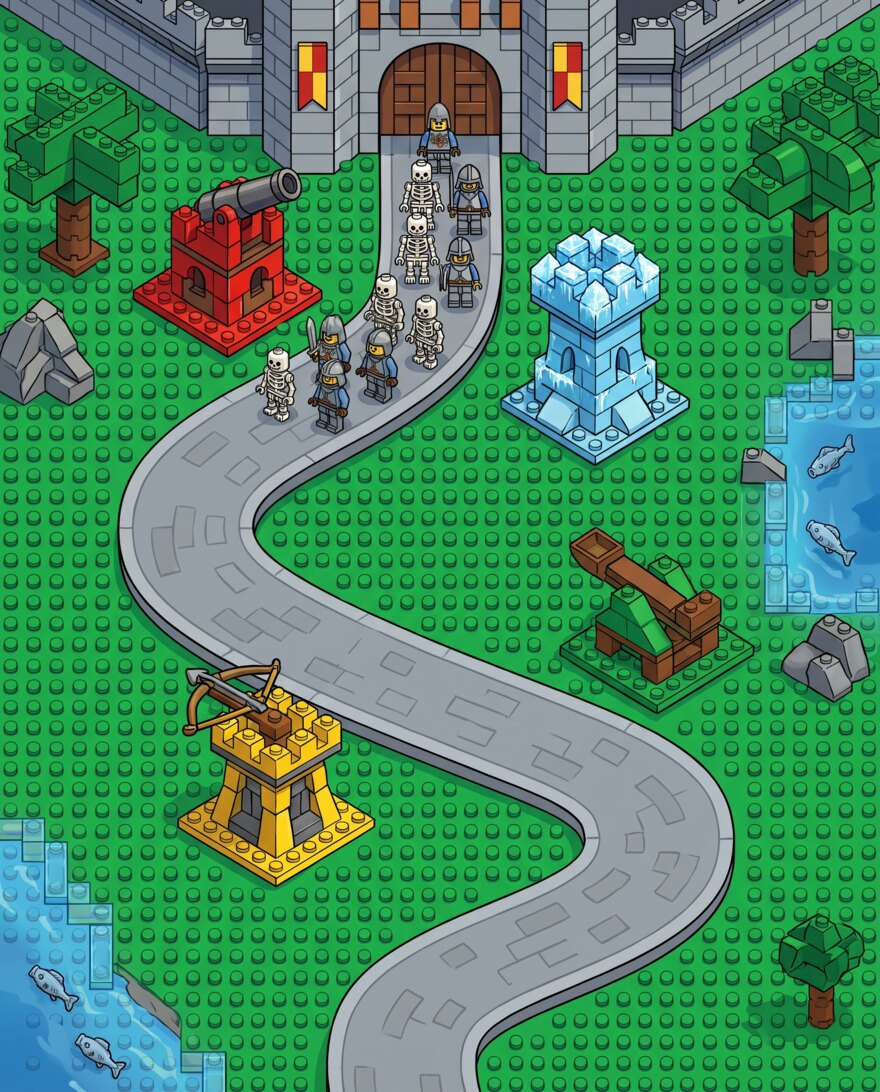
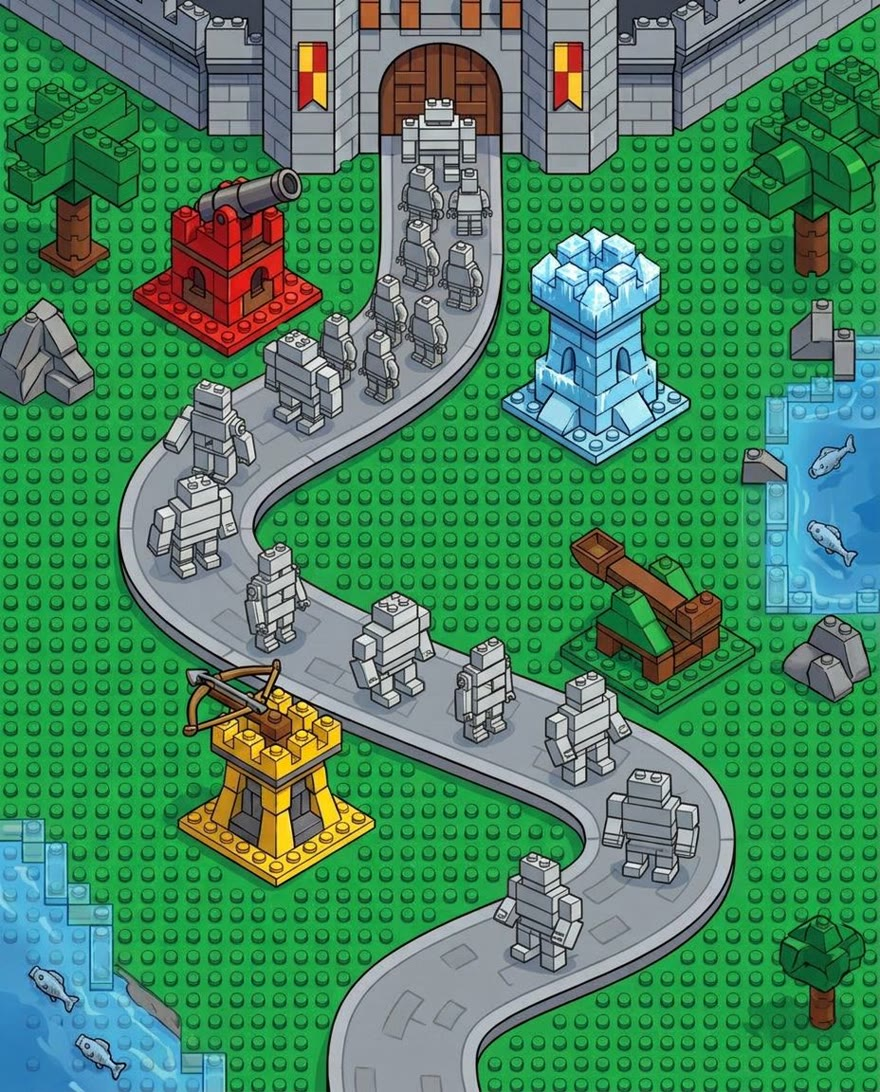
Proposal updates

diff --git a/PuppetSports_Revival/public/hockey.html b/PuppetSports_Revival/public/hockey.html
@@ -843,25 +843,25 @@
 
       <div class="sports-strip reveal d3">
         <div class="shot" data-label="Floorball">
-          <img src="assets/sport-floorball.gif" alt="Floorball built on the Puppet Sports core"
+          <img src="assets/sport-floorball.gif" alt="Floorball built on the Puppet Sports core" loading="lazy"
                onerror="this.onerror=null; this.src='assets/sport-floorball.svg';" />
         </div>
-        <div class="shot" data-label="Football">
-          <img src="assets/sport-football.gif" alt="Football built on the Puppet Sports core"
+        <div class="shot" data-label="American football">
+          <img src="assets/sport-football.gif" alt="American football built on the Puppet Sports core" loading="lazy"
                onerror="this.onerror=null; this.src='assets/sport-football.svg';" />
         </div>
-        <div class="shot" data-label="Quidditch">
-          <img src="assets/sport-quidditch.gif" alt="Quidditch built on the Puppet Sports core"
+        <div class="shot" data-label="Quadball">
+          <img src="assets/sport-quidditch.gif" alt="Quadball built on the Puppet Sports core" loading="lazy"
                onerror="this.onerror=null; this.src='assets/sport-quidditch.svg';" />
         </div>
         <div class="shot" data-label="Horse polo">
-          <img src="assets/sport-polo.gif" alt="Horse polo built on the Puppet Sports core"
+          <img src="assets/sport-polo.gif" alt="Horse polo built on the Puppet Sports core" loading="lazy"
                onerror="this.onerror=null; this.src='assets/sport-polo.svg';" />
         </div>
       </div>
       <p class="strip-cap reveal d3">
-        <strong>Floorball. Football. Quidditch. Horse polo.</strong> Four passes we have already made on this same
-        core. If it has two sides and something to score with, the answer is yes.
+        <strong>Floorball. American football. Quadball. Horse polo.</strong> Four passes we have already made on this
+        same core, captured live from the build. If it has two sides and something to score with, the answer is yes.
       </p>
 
       <div class="hero-actions reveal d3">

diff --git a/PuppetSports_Revival/public/index.html b/PuppetSports_Revival/public/index.html
@@ -899,25 +899,25 @@
 
       <div class="sports-strip reveal d3">
         <div class="shot" data-label="Floorball">
-          <img src="assets/sport-floorball.gif" alt="Floorball built on the Puppet Sports core"
+          <img src="assets/sport-floorball.gif" alt="Floorball built on the Puppet Sports core" loading="lazy"
                onerror="this.onerror=null; this.src='assets/sport-floorball.svg';" />
         </div>
-        <div class="shot" data-label="Football">
-          <img src="assets/sport-football.gif" alt="Football built on the Puppet Sports core"
+        <div class="shot" data-label="American football">
+          <img src="assets/sport-football.gif" alt="American football built on the Puppet Sports core" loading="lazy"
                onerror="this.onerror=null; this.src='assets/sport-football.svg';" />
         </div>
-        <div class="shot" data-label="Quidditch">
-          <img src="assets/sport-quidditch.gif" alt="Quidditch built on the Puppet Sports core"
+        <div class="shot" data-label="Quadball">
+          <img src="assets/sport-quidditch.gif" alt="Quadball built on the Puppet Sports core" loading="lazy"
                onerror="this.onerror=null; this.src='assets/sport-quidditch.svg';" />
         </div>
         <div class="shot" data-label="Horse polo">
-          <img src="assets/sport-polo.gif" alt="Horse polo built on the Puppet Sports core"
+          <img src="assets/sport-polo.gif" alt="Horse polo built on the Puppet Sports core" loading="lazy"
                onerror="this.onerror=null; this.src='assets/sport-polo.svg';" />
         </div>
       </div>
       <p class="strip-cap reveal d3">
-        <strong>Floorball. Football. Quidditch. Horse polo.</strong> Four passes we have already made on this same
-        core. If it has two sides and something to score with, the answer is yes.
+        <strong>Floorball. American football. Quadball. Horse polo.</strong> Four passes we have already made on this
+        same core, captured live from the build. If it has two sides and something to score with, the answer is yes.
       </p>
 
       <div class="hero-actions reveal d3">

diff --git a/PuppetSports_Revival/public/soccer.html b/PuppetSports_Revival/public/soccer.html
@@ -843,25 +843,25 @@
 
       <div class="sports-strip reveal d3">
         <div class="shot" data-label="Floorball">
-          <img src="assets/sport-floorball.gif" alt="Floorball built on the Puppet Sports core"
+          <img src="assets/sport-floorball.gif" alt="Floorball built on the Puppet Sports core" loading="lazy"
                onerror="this.onerror=null; this.src='assets/sport-floorball.svg';" />
         </div>
-        <div class="shot" data-label="Football">
-          <img src="assets/sport-football.gif" alt="Football built on the Puppet Sports core"
+        <div class="shot" data-label="American football">
+          <img src="assets/sport-football.gif" alt="American football built on the Puppet Sports core" loading="lazy"
                onerror="this.onerror=null; this.src='assets/sport-football.svg';" />
         </div>
-        <div class="shot" data-label="Quidditch">
-          <img src="assets/sport-quidditch.gif" alt="Quidditch built on the Puppet Sports core"
+        <div class="shot" data-label="Quadball">
+          <img src="assets/sport-quidditch.gif" alt="Quadball built on the Puppet Sports core" loading="lazy"
                onerror="this.onerror=null; this.src='assets/sport-quidditch.svg';" />
         </div>
         <div class="shot" data-label="Horse polo">
-          <img src="assets/sport-polo.gif" alt="Horse polo built on the Puppet Sports core"
+          <img src="assets/sport-polo.gif" alt="Horse polo built on the Puppet Sports core" loading="lazy"
                onerror="this.onerror=null; this.src='assets/sport-polo.svg';" />
         </div>
       </div>
       <p class="strip-cap reveal d3">
-        <strong>Floorball. Football. Quidditch. Horse polo.</strong> Four passes we have already made on this same
-        core. If it has two sides and something to score with, the answer is yes.
+        <strong>Floorball. American football. Quadball. Horse polo.</strong> Four passes we have already made on this
+        same core, captured live from the build. If it has two sides and something to score with, the answer is yes.
       </p>
 
       <div class="hero-actions reveal d3">

diff --git a/LEGO_BlockDefense/public/index.html b/LEGO_BlockDefense/public/index.html
@@ -1367,7 +1367,7 @@
         <div class="mock-chip c3">Shared risk<small>1/3 tied to performance</small></div>
         <div class="phone">
           <div class="screen">
-            <img src="assets/block-hero.jpg" alt="Block Defense concept: a minifigure hero overlooking a brick-built world map" />
+            <img src="assets/block-hero.jpg" alt="Block Defense concept: a brick-built robot hero overlooking a brick-built world map" />
           </div>
         </div>
       </div>
@@ -1493,7 +1493,7 @@
       </div>
 
       <div class="feature-split reveal">
-        <img src="assets/block-loop.jpg" alt="A brick-built cannon firing at minifigure attackers that burst apart into loose bricks" />
+        <img src="assets/block-loop.jpg" alt="A brick-built cannon firing at brick-built attackers that burst apart into loose bricks" />
         <div>
           <span class="studs" style="--sc: #e3000b;"><i></i><i></i><i></i><i></i></span>
           <h3>The rebuild loop</h3>
@@ -2079,7 +2079,8 @@
         LEGO&reg;, the LEGO logo, the Minifigure and the brick and knob configurations are trademarks of the LEGO Group,
         used here solely to describe a proposed collaboration. This proposal is not sponsored, authorised or endorsed by
         the LEGO Group. All visuals shown are AI-generated concept illustrations produced for this pitch; they are not
-        final game assets and do not depict existing LEGO products or sets.
+        final game assets, do not depict existing LEGO products or sets, and deliberately avoid depicting the
+        Minifigure and other protected LEGO characters pending brand approval.
       </p>
     </div>
   </footer>

diff --git a/PuppetSports_Revival/public/assets/style.css b/PuppetSports_Revival/public/assets/style.css
@@ -1070,13 +1070,13 @@ section { position: relative; padding: 100px 0; }
 /* ---------- Any-sport strip ---------- */
 .sports-strip {
   display: grid;
-  grid-template-columns: repeat(4, 1fr);
+  grid-template-columns: repeat(2, 1fr);
   gap: 12px;
   max-width: 760px;
   margin: 36px auto 16px;
 }
 
-.sports-strip .shot { aspect-ratio: 4 / 3; border-radius: 12px; }
+.sports-strip .shot { aspect-ratio: 16 / 9; border-radius: 12px; }
 .sports-strip .shot::before { font-size: 0.56rem; letter-spacing: 0.12em; }
 
 .strip-cap {

diff --git a/PuppetSports_Revival/gen_sport_pages.py b/PuppetSports_Revival/gen_sport_pages.py
@@ -8,7 +8,7 @@ sport-specific strings are substituted in that tail.
 """
 import pathlib
 
-PUB = pathlib.Path('/Users/davidvykopal/.superset/worktrees/78e07d52-6fb3-4c2e-a8e7-bd8bf30ca9dc/puppets/PuppetSports_Revival/public')
+PUB = pathlib.Path(__file__).resolve().parent / 'public'
 core = (PUB / 'index.html').read_text()
 
 TAIL_MARK = '  <!-- ===== Board divider ===== -->'

diff --git a/PuppetSports_Revival/README.md b/PuppetSports_Revival/README.md
@@ -87,6 +87,7 @@ all three pages stay identical.
 | `hockey-1..8.jpg` | Google Play store screenshots, Puppet Ice Hockey, 1280x720 |
 | `icon-soccer.png`, `icon-hockey.png` | Play store app icons, 512x512 |
 | `noxgames-logo.png` | copied from `../CPI_Tests/assets` |
+| `sport-{floorball,football,quidditch,polo}.gif` | Jiri's SnapCast gameplay captures (20 Jul 2026), re-encoded to 10 s / 640x360 / 10 fps / 128 colors with ffmpeg (2.2 to 3.6 MB each, originals ~19-32 MB). `sport-football.gif` shows American football, `sport-quidditch.gif` shows Quadball — page labels match the build's watermarks, filenames kept for the svg fallback pairing |
 | `meowcup-1..4.jpg` | **MISSING — drop the four MeowCup Field Hockey creatives here** |
 
 Until those files exist, the tiles render as labelled placeholder panels (dark diagonal-stripe
@@ -95,8 +96,9 @@ tiles naming the missing file). The pages do not break. Filenames must match exa
 ### The "any sport" strip in the CTA
 
 Each tile loads `assets/sport-<name>.gif` and, if that 404s, falls back to
-`assets/sport-<name>.svg`. So **dropping the real GIFs in needs no code change** — same four
-filenames, and they win automatically.
+`assets/sport-<name>.svg`. **The real gameplay GIFs are in place since 28 Aug 2026** (see the
+assets table); the SVGs stay as fallbacks only. The strip is a 2x2 grid of 16:9 tiles, lazy-loaded,
+so the ~12 MB of GIFs only download when a visitor scrolls to the CTA.
 
 The `.svg` files are flat-vector placeholders generated by `tools/make_sport_placeholders.py`.
 They are deliberately illustrations, not fake gameplay: two puppets, the right surface and

diff --git a/PuppetSports_Revival/OUTREACH.md b/PuppetSports_Revival/OUTREACH.md
@@ -235,7 +235,9 @@ Ordered by how fast we could realistically get a first call, not by size.
 
 - [ ] Drop the four MeowCup creatives into `public/assets/` so the Proof section is complete
 - [ ] Get the source behind the 42M downloads figure
-- [ ] Get Jiri's floorball / football / quidditch / horse polo GIFs into `public/assets/`
+- [x] Get Jiri's floorball / football / quadball / horse polo GIFs into `public/assets/` (done 28 Aug 2026,
+      cut to 10 s / 640x360 / 10 fps from his SnapCast captures; strip labels now say Quadball and
+      American football to match the build's watermarks)
 - [ ] Deploy the three pages (`npm run cf:deploy`) and get the URLs
 - [ ] Build the mockup pipeline: one reusable PSD or template per sport, so a branded screenshot
       takes 30 minutes not half a day
